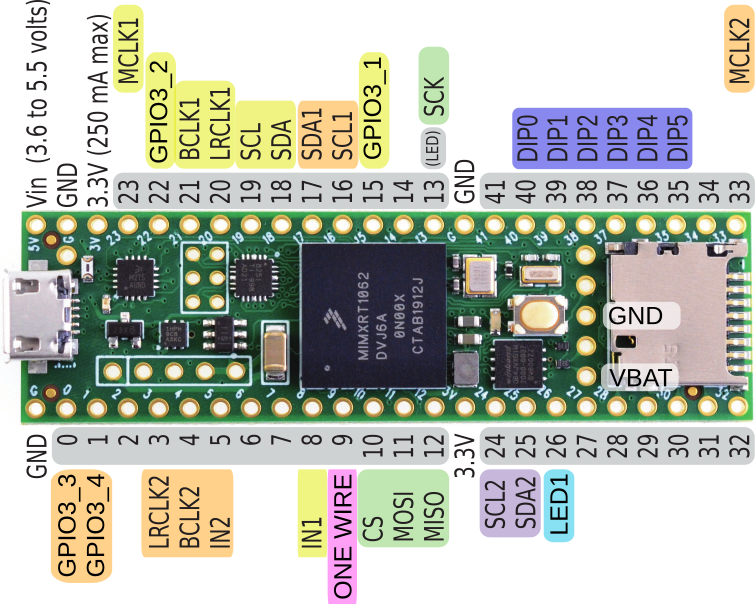
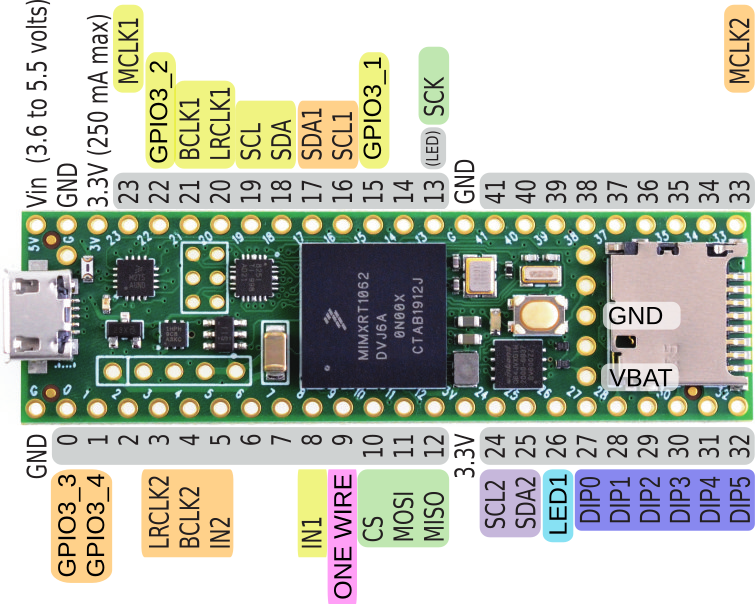
[R4.1b] moved DIP switch to other side

Changed region(s): [[0.7007, 0.7748, 1.0, 0.894], [0.6702, 0.1788, 0.9444, 0.298]]

diff --git a/R4.2/r42b.md b/R4.2/r42b.md
@@ -69,7 +69,7 @@ Figure 15 of the evaluation board manual:
 | 0              | -            | GPIO3 chip1     |
 | 1              | -            | GPIO3 chip2     |
 | 26             | LED extern   | -               |
-| 35 - 40        | Device ID DIPs | Device ID DIPs |
+| 27 - 32        | Device ID DIPs | Device ID DIPs |
 
 
 ![pinout](images/teensy41-R42b-pinout.png)

diff --git a/R4.1/r41b.md b/R4.1/r41b.md
@@ -85,7 +85,7 @@ Figure 15 of the evaluation board manual:
 | 11             | SPI MOSI         |
 | 12             | SPI MISO         |
 | 13             | SPI SCK          |
-| 35 - 40        | Device ID DIPs   |
+| 27 - 32        | Device ID DIPs   |
 | VBAT           | Coin battery     |
 
 ![pinout](images/teensy41-R41b-pinout.png)
